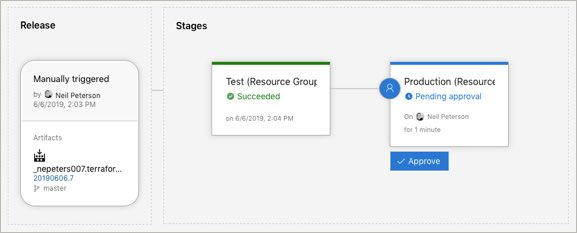
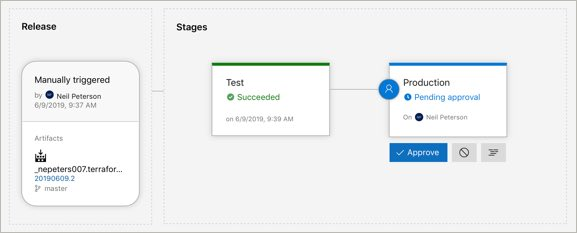
Update Content

diff --git a/11-continuous-deployment/README.md b/11-continuous-deployment/README.md
@@ -14,7 +14,7 @@ Start with an empty job pipeline template.
 
 ![](../images/empty-job.jpg)
 
-Name the first stage `Test (Resource Group)`.
+Name the stage `Test`.
 
 ![](../images/stage-one.jpg)
 
@@ -26,7 +26,7 @@ Select the build pipeline and click **Add**.
 
 ![](../images/deployment-artifacts.jpg)
 
-Select the test stage to edit the stage tasks.
+Select the stage to edit the stage tasks.
 
 ![](../images/stage-tasks.jpg)
 
@@ -34,16 +34,18 @@ Select **Agent job** and update the **Agent pool** to use `Hosted Ubuntu 1604`.
 
 ![](../images/build-agent.jpg)
 
-Add a **Command Line** task, give it a name of `Terraform Deploy Test`.
+Add a **Command Line** task, give it a name of `Deploy Hello World`.
 
 ![](../images/command-line.jpg)
 
 Copy in the following commands.
 
 ```
+RELEASE=Hello-World-$(Release.EnvironmentName)
+
 cd $(Release.PrimaryArtifactSourceAlias)/drop/modules/hello-world
 terraform init
-terraform plan --out plan.out -var resource_group=hello-world-test-environment -var dns-prefix=hello-world-test-environment
+terraform plan --out plan.out -var resource_group=$RELEASE -var dns-prefix=$RELEASE
 terraform apply plan.out
 ```
 
@@ -89,7 +91,7 @@ Return to the release pipeline, click **Edit**, and clone the test stage.
 
 ![](../images/clone.jpg)
 
-Update the stage and task name so that they indicate a production deployment.
+Name the new stage `Production` and click save.
 
 ![](../images/production.jpg)
 
@@ -117,6 +119,6 @@ When done, you should see both the test and production release in the Azure port
 
 ![](../images/both-releases.jpg)
 
-## Extra Credit
+## Bonus
 
 These Azure Pipeline examples have not included remote state. As an additional challenge, see if you can insert the logic to store both the test and production state in an Azure backend.
